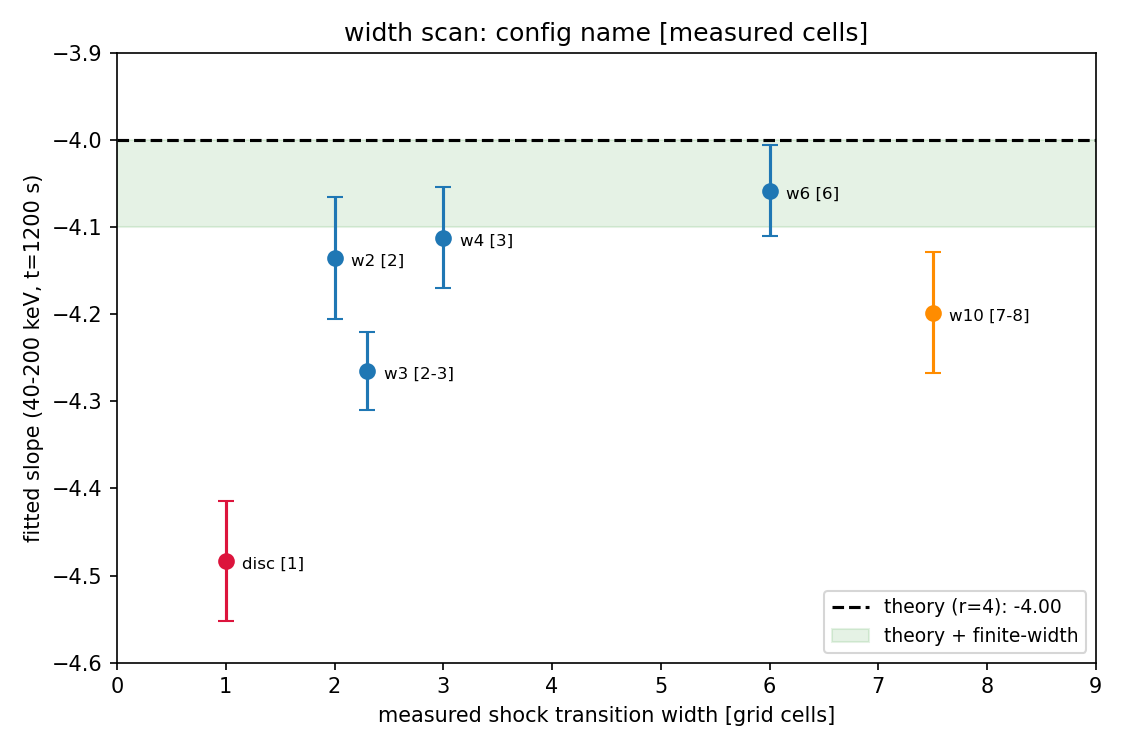
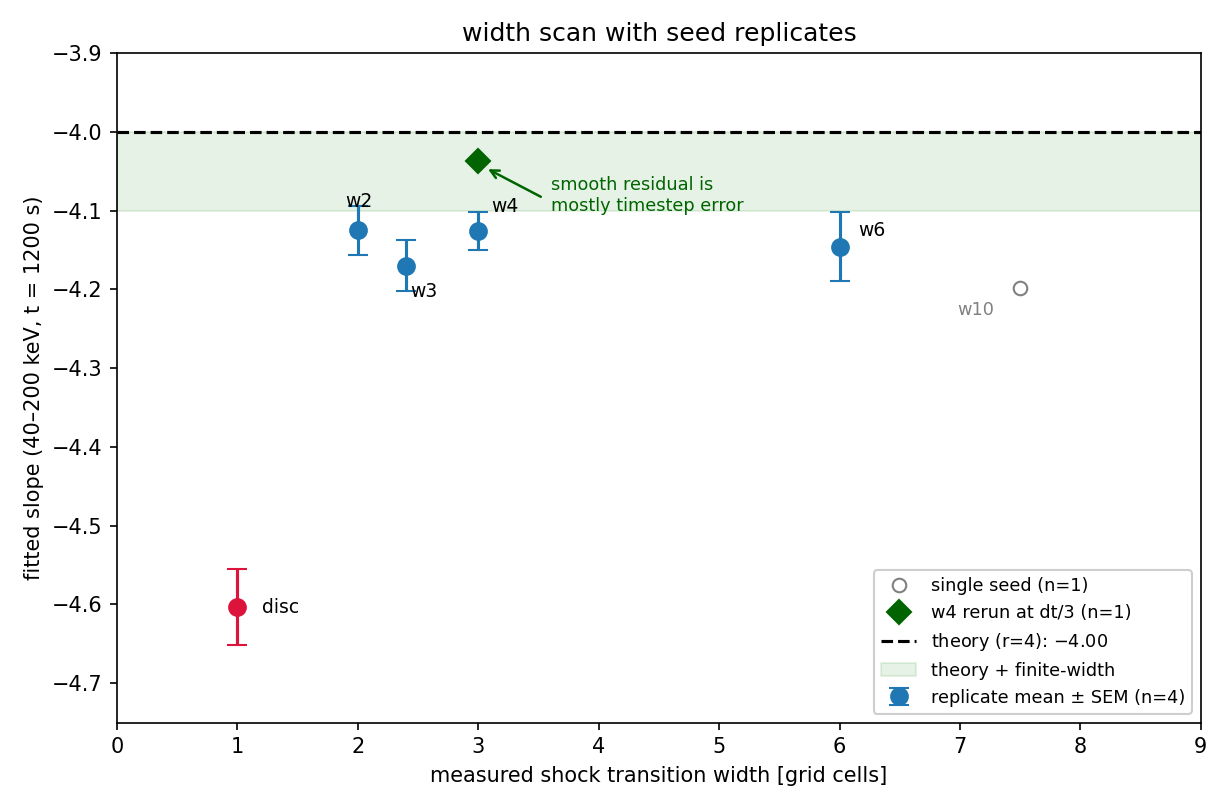
Add timestep-ledger note; update DSA note with replicate-hardened figures and numbers
New Random Walks entry: the dt constraints of an SDE Parker solver, the
code-vs-theory ledger, the measured separation of timestep vs
field-representation error, and the configuration-only speedup experiment
(80x faster, physics broken - the case for a graduated distance rule).
DSA note updated: seed-replicate statistics (n=4 per width), corrected
slope numbers, hardened width-scan figure.

Claude-Session: https://claude.ai/code/session_01Uh9QmchVi6VEDByCMMSrQd

diff --git a/src/pages/notes/sde-timestep.md b/src/pages/notes/sde-timestep.md
@@ -1,0 +1,213 @@
+---
+layout: ../../layouts/NoteLayout.astro
+title: "How Small Must a Timestep Be? The dt Ledger of a Stochastic Transport Solver"
+description: "Every timescale that constrains the timestep of an SDE solver of the Parker equation, what a real code does about each, and the measured cost of getting it wrong."
+date: "2026-08-04"
+topic: "numerical methods"
+---
+# How Small Must a Timestep Be? The dt Ledger of a Stochastic Transport Solver
+
+*Companion working notes to* [Diffusive Shock Acceleration, the Parker
+Equation, and Its Limits](/notes/parker-sde-shock) *, developed while
+profiling and validating the MITTENS stochastic SEP transport code. They
+collect the complete list of timescales that constrain the timestep of a
+stochastic-differential-equation (SDE) solver of the Parker equation, what a
+real code does about each, the measurements that separate timestep error from
+other error sources — and the asymmetry that makes such solvers dramatically
+cheaper than a fixed global timestep suggests.*
+
+---
+
+## 1. The setting
+
+An SDE solver advances pseudo-particles with the Euler–Maruyama step
+
+$$
+x_{n+1} = x_n + a(x_n)\,\Delta t + b(x_n)\,\sqrt{\Delta t}\;\mathcal{N}(0,1),
+\qquad
+P_{n+1} = P_n\,\big(1 + \dot{(\ln\rho)}\,\Delta t\big),
+$$
+
+with drift $a$, noise amplitude $b = \sqrt{2\kappa}/\Delta S$, and the
+adiabatic momentum "kick" driven by the local compression rate. All
+coefficients are evaluated *at the start of the step* (the Itô convention)
+and held frozen while the particle jumps. Every timestep constraint below is
+a statement about when that freezing is harmless.
+
+## 2. The ledger: every upper bound theory imposes
+
+**1. Feature resolution.** The step's random displacement
+$b\sqrt{\Delta t}$ must be small compared to the scale $\ell$ over which the
+coefficients vary, or the particle leaps structures and samples fields it
+never traversed:
+
+$$
+\Delta t \ll \ell^2 / 2\kappa_{\rm eff}.
+$$
+
+At a shock, $\ell$ = the transition width $W$; in smooth backgrounds, the
+gradient scale; in uniform plasma, $\infty$ — no constraint at all.
+
+**2. Drift subordination.** Freezing the coefficients is legitimate while
+the stochastic displacement dominates the deterministic one:
+
+$$
+\Delta t \lesssim 2\kappa_{\rm eff}/a^2 .
+$$
+
+**3. Drift feature-crossing.** The deterministic push must not leap a
+feature either: $\Delta t \ll W/|a|$.
+
+**4. Kick-rate resolution.** The per-step momentum increment must be small,
+$\Delta t \ll 1/|\dot{(\ln\rho)}|$, or the linearized update $1 + x$
+systematically under-delivers the true $e^{x}$.
+
+**5. Background time-dependence.** Coefficients are known only per
+data-coupling interval; a step must not outlive its inputs:
+$\Delta t \le$ the coupling cadence.
+
+**(6. Boundaries.** Near reflecting/absorbing boundaries the step must be
+small compared to the distance to the wall, or crossing statistics acquire
+$O(\sqrt{\Delta t})$ errors.)*
+
+## 3. The other side of the ledger: there is no lower bound
+
+Every entry above is an upper bound. **There is no $\Delta t \gg$ requirement
+for correctness**: Euler–Maruyama converges monotonically as
+$\Delta t \to 0$, and in uniform regions the Gaussian step is *exact* at any
+size. Three soft floors exist, none of them correctness:
+
+- **The physical-meaning floor**, $\Delta t \sim \lambda/v$ (the scattering
+  time): below it each step resolves motion the real particle does not
+  perform — sub-scattering-scale trajectories are the diffusion picture's
+  own fiction, and individual step "speeds" $b/\sqrt{\Delta t}$ become
+  superballistic. This does **not** corrupt the ensemble (it still solves
+  the Parker equation exactly); it merely buys accuracy of a fiction.
+- **The cost floor**: halving $\Delta t$ doubles the bill, with zero gain
+  wherever the upper bounds were not binding.
+- **The roundoff floor** (theoretical curiosity): increments below machine
+  precision relative to the coordinate silently freeze motion — reachable
+  only at $\Delta t$ tens of orders of magnitude below practice.
+
+The rule that follows is clean and asymmetric: **choose the largest
+$\Delta t$ satisfying every applicable upper bound at the particle's current
+location.** The upper bounds are laws; running below them is charity to the
+electricity company.
+
+## 4. What a real code implements
+
+MITTENS computes a per-particle adaptive candidate and then applies two user
+knobs:
+
+$$
+\Delta t = \min\big(\Delta t_{\rm adaptive}\times\texttt{TimeStepFactor},\;
+\texttt{MaxTimeStep}\big),
+$$
+
+clipped finally to the coupling-interval boundary (ledger entry 5,
+structurally enforced). The adaptive candidate is ledger entry 2 far from
+the shock, and the minimum of entries 1–3 (with $\ell = $ the *detected*
+shock-zone width) inside it. Scoring the implementation against the ledger:
+
+| # | theory | implementation | verdict |
+|---|---|---|---|
+| 1 | $\Delta t \ll W^2/2\kappa$ at features | $W^2/b^2$, zone-only | right formula; **no safety factor**, and a **hole in the approach region** (one cell outside the detected zone, the constraint vanishes) |
+| 2 | $\Delta t \lesssim 2\kappa/a^2$ | $b^2/a^2$ | correct |
+| 3 | $\Delta t \ll W/\lvert a\rvert$ | $W/\lvert a\rvert$, zone-only | same defects as 1 |
+| 4 | $\Delta t \ll 1/\lvert\dot{(\ln\rho)}\rvert$ | — | **missing** (satisfied by accident when the global cap is small) |
+| 5 | $\Delta t \le$ coupling cadence | hard clamp + time interpolation | correct |
+| 6 | boundary-aware step | — | missing; benign while boundaries are far from the action |
+
+Two practical observations complete the picture. First, in conservative
+*test* configurations the global cap is set so low that it binds everywhere
+— the sophisticated ledger never gets to act, and every particle marches at
+one tiny uniform $\Delta t$. Second, the statistical machinery already
+permits per-particle variable timesteps: the distribution estimate is an
+occupation-time average in which each step deposits weight
+$\times\,\Delta t$, so a mixture of long and short steps remains unbiased.
+The door to adaptivity was always open.
+
+## 5. Separating timestep error from everything else: measurements
+
+Three experiments on the analytic $r=4$ shock (see the companion note for
+the setup) isolate what $\Delta t$ does and does not cause:
+
+1. **A timestep-convergence series** (global cap 0.03 / 0.01 / 0.001 s at
+   fixed output time) showed the large spectral bias of an *unresolved*
+   (one-cell) shock to be **dt-independent**: refining the timestep tenfold
+   moved the fitted slope by only $0.09 \pm 0.09$. Conclusion: that bias is
+   field-representation error (ledger entry 1 violated by the *data*, not
+   the clock), and no timestep can cure it.
+
+![Timestep-convergence of the shock spectrum](/notes/sde-timestep/figures/convergence_dt.png)
+
+*Shock spectra and fitted slope versus the global timestep cap at fixed
+output time, for the one-cell shock: the discretization bias survives
+$\Delta t \to 0$ essentially unchanged — the defect is in the represented
+fields, not the integration.*
+
+2. **With the shock properly resolved** (smooth, several cells wide), the
+   remaining small deficit of the spectrum *is* mostly timestep error: a
+   single run at one-third the cap recovered most of it (slope
+   $-4.13 \to -4.04$ against the theoretical $-4.00$). The near-shock
+   criteria target step $\approx$ zone rather than step $\ll$ zone — the
+   missing safety factor of ledger entry 1 — and a factor ~3 supplies it.
+
+3. **The cost anatomy**: with continuous injection, particle count grows
+   linearly in time, so runtime grows as $t^2$; and at late times ~97% of
+   particles reside in the far-downstream plateau — uniform plasma, ledger
+   entry 1 at $\ell = \infty$ — taking steps orders of magnitude below any
+   binding bound. Nearly the entire bill is charity.
+
+## 6. The operational consequences
+
+Ordered by effort:
+
+- **Configuration only**: raise the global cap so the adaptive ledger
+  (entries 1–3) becomes the binding constraint near the shock while far
+  particles step at the coupling cadence; use the global multiplier as the
+  missing safety factor (it scales the adaptive candidate, so it tightens
+  the shock zone without touching the far regime). Expected order-of-
+  magnitude speedups with no code change — subject to one risk: the binary
+  far/zone split leaves the *approach region* (the diffusive foot outside
+  the detected zone) stepping at the full cap.
+- **A graduated distance rule** (small code change): allow
+  $\Delta t \le \alpha\, d^2/2\kappa_{\rm eff}$ at distance $d$ from the
+  nearest structure — closing the approach-region hole and making the
+  far-field ceiling ramp smoothly instead of switching.
+- **A kick-rate guard** (one line): ledger entry 4, currently unprotected on
+  realistic data.
+
+The deepest lesson generalizes beyond this code: in stochastic transport
+solvers the timestep is not a global accuracy dial but a *local contract* —
+each particle owes each upper bound only where that bound applies, and
+almost everywhere, almost none apply.
+
+## 7. Postscript: the configuration-only experiment
+
+The cheapest option was tested directly: the resolved-shock benchmark run
+with the global cap raised, nothing else changed. Three caps, same physics,
+same analysis:
+
+| cap [s] | wall time | speedup | slope (40–200 keV) | amplitude vs baseline |
+|---|---|---|---|---|
+| 0.01 (baseline, 4 seeds) | ≈ 2.5 h | 1× | $-4.13 \pm 0.05$ | 1 |
+| 0.1 | 11 min | ≈ 14× | $-4.35 \pm 0.07$ | 0.88 |
+| 1.0 | 109 s | ≈ 80× | $-4.74 \pm 0.11$ | 0.90 |
+
+The speedup is as large as promised — and the spectrum degrades
+monotonically with the cap, already ~3σ outside the replicate band at 0.1 s.
+The mechanism is the predicted approach-region hole: the binary far/zone
+test leaves particles in the diffusive foot — *outside* the detected shock
+zone but *inside* the region where return statistics are decided — stepping
+at the full cap, with jumps comparable to the foot itself. Notably, even a
+cap giving upstream steps of "only" ~1.4 cells against a 10-cell foot
+already costs 0.2 in slope: the cycle statistics are more fragile than a
+crude step-versus-foot estimate suggests.
+
+Conclusion, measured rather than argued: **configuration alone cannot buy
+the large speedup — the graduated distance rule
+$\Delta t \le \alpha\,d^2/2\kappa_{\rm eff}$ is required**, so that the
+step length ramps down smoothly on approach and no particle ever jumps a
+significant fraction of its distance to the front. The ~80× ceiling
+measured here is what that rule stands to reclaim, legitimately.

diff --git a/src/pages/notes/parker-sde-shock.md b/src/pages/notes/parker-sde-shock.md
@@ -601,8 +601,8 @@ $$
 
 A quarter less per round leaves you ten times poorer at the end — and "fewer
 particles at every energy, worse the higher you go" *is* a steeper slope.
-The measured effect for a one-cell $r=4$ shock: slope $-4.5$ instead of
-$-4.0$, i.e. the solver behaves like an $r \approx 3.2$ shock.
+The measured effect for a one-cell $r=4$ shock: slope $-4.60 \pm 0.05$
+instead of $-4.0$, i.e. the solver behaves like an $r \approx 2.9$ shock.
 
 ### 8.6 Why "widen the shock" is a repair, not a cheat
 
@@ -639,12 +639,22 @@ sits far from the physical wall except the widest).
 
 ![Fitted spectral slope versus measured shock transition width](/notes/parker-sde-shock/figures/width_scan.png)
 
-*Fitted slope (40–200 keV, $t = 1200$ s) versus measured transition width.
-The discontinuous one-cell jump (red) sits at $-4.48$; every smooth profile
-recovers to $-4.06\ldots-4.27$; the optimum plateau is at 4–6 cells,
-consistent with theory plus the small finite-width correction (green band);
-at 7–8 cells — width approaching $L$ — the slope steepens again (orange):
-the physical suppression of Section 6 switching on, as predicted.*
+*Fitted slope (40–200 keV, $t = 1200$ s) versus measured transition width,
+with four independent random-seed realizations per filled point (error bars
+are standard errors of the mean). The discontinuous one-cell jump (red) sits
+at $-4.60 \pm 0.05$; every smooth profile recovers to a flat plateau at
+$-4.13 \pm 0.02$ from two cells upward — smoothness, not width, is the
+requirement. The green diamond is the same 3-cell case run at one-third the
+timestep: it moves to $-4.04$, indicating that most of the small remaining
+deficit of the smooth cases is ordinary timestep error (the fly-over defect),
+leaving the truly width/smoothness-induced part within the predicted
+finite-width band (green). Open gray circles are single-seed runs; the 7–8
+cell point's mild steepening — width approaching $L$ — is consistent with
+the physical suppression of Section 6 switching on. A single-seed
+compression-ratio generalization ($r = 3$, theory $-4.50$) measured
+$-4.60 \pm 0.09$: the solver reproduces the $r$-dependence of the DSA
+slope (measured $r=4 \to r=3$ shift $0.47 \pm 0.10$ vs the theoretical
+$0.50$).*
 
 ![Shock spectra for all widths with the analytic reference](/notes/parker-sde-shock/figures/width_spectra.png)
 
@@ -654,13 +664,16 @@ progressive in energy — the compound-interest signature made visible — while
 all smooth profiles track the reference until the shared finite-time cutoff
 region.*
 
-Two conclusions with practical force. First, *profile smoothness matters as
-much as width*: a smooth two-cell ramp already removes most of the bias,
-because Defects 1 and 3 are about representability, not size. Second, the
-resolved optimum (4–6 cells) plus the free-lunch condition $W \ll L$
+Three conclusions with practical force. First, *profile smoothness is the
+requirement, not width*: a smooth two-cell ramp already recovers the full
+plateau, because Defects 1 and 3 are about representability, not size.
+Second, the small residual deficit of the smooth cases decomposes cleanly:
+mostly ordinary timestep error (removable by dt refinement — the green
+diamond), with the remainder inside the expected finite-width correction.
+Third, the smooth plateau plus the free-lunch condition $W \ll L$
 reproduces, from measurement, exactly the admission window of Section 7 — and
-condemns any "sharpening" scheme that condenses real smeared shocks to one or
-two cells: it lands the solver on the red point of the figure.
+condemns any "sharpening" scheme that condenses real smeared shocks to a
+one-cell discontinuity: it lands the solver on the red point of the figure.
 
 ---
 
